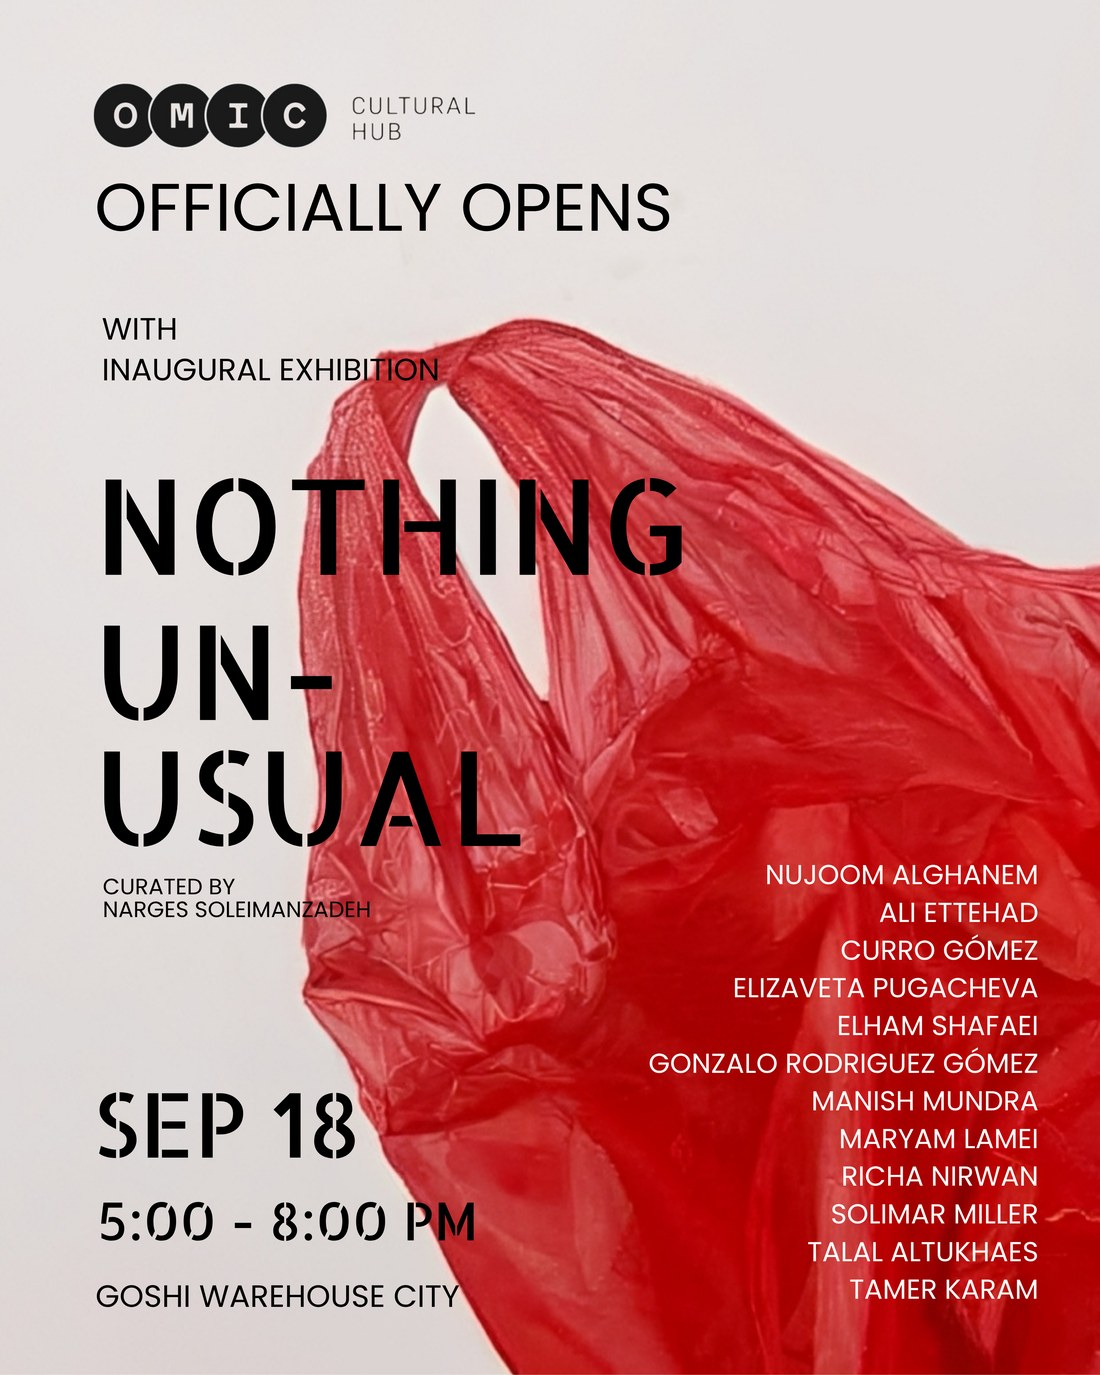
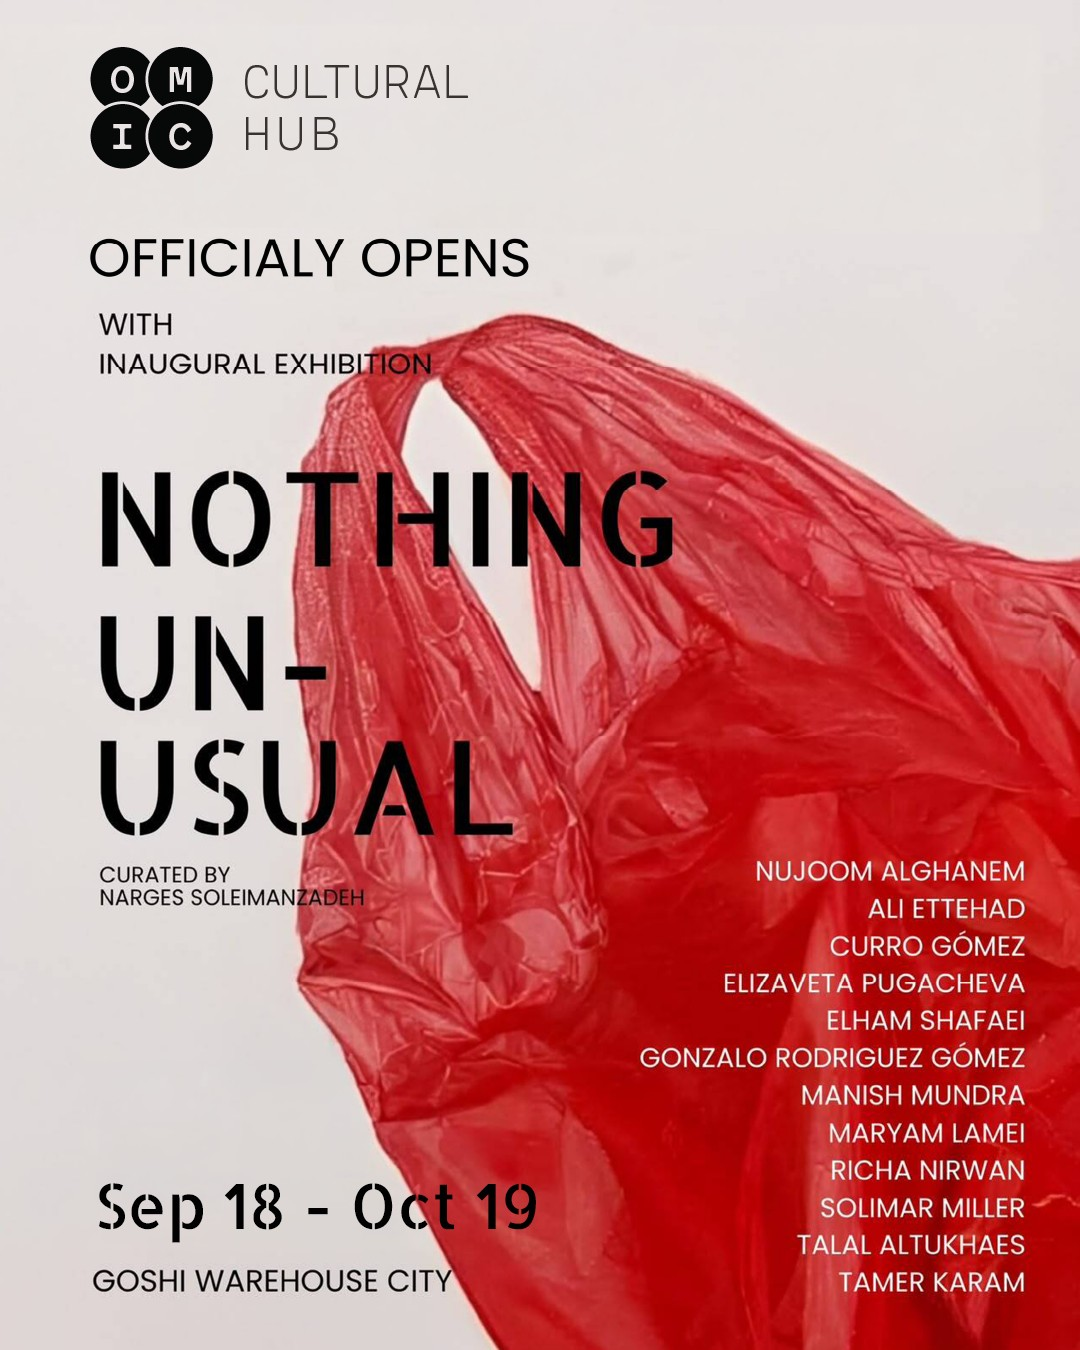
Revert Nothing Unusual to Live Event with new poster; rework Art Contest page
- nothing-unusual.html poster.jpg replaced with the new OMIC Cultural Hub
  opening poster; badge reverted from "Completed" back to "Live Event"
  (index.html and events.html teaser badges too)
- art-competition.html: removed the Competition/All Media/Cash Prizes tag
  pills and replaced them with an "Apply Now" button; removed the "Open
  call announced" / "Submission deadline" date cards; added a "Deadline"
  entry to Submission Guidelines; moved the guidelines CTA to sit after
  Submission Guidelines instead of before it
- Art Contest page: left (details) and right (form) columns now scroll
  independently on desktop instead of the whole page scrolling as one

Claude-Session: https://claude.ai/code/session_01QcJZvNdZNVGEmbqVAhxTTi

diff --git a/art-competition.html b/art-competition.html
@@ -49,8 +49,9 @@
     </div>
   </header>
 
-  <main class="layout">
+  <main class="layout layout--split-scroll">
 
+    <div class="content-scroll">
     <section class="content content--top">
       <div class="eyebrow-badge"><span class="dot dot--orange"></span>Open Call</div>
 
@@ -59,30 +60,11 @@
 
     <section class="content content--bottom">
 
-      <div class="tag-row">
-        <span class="tag-pill">COMPETITION</span>
-        <span class="tag-pill">ALL MEDIA</span>
-        <span class="tag-pill">CASH PRIZES</span>
-      </div>
+      <button type="button" id="artworkJumpToFormApplyNow" class="btn btn--primary btn--block" data-jump-to-field="artistName">
+        Apply Now
+      </button>
 
       <h1 class="title">The OMIC Art <span class="accent-blue">Contest</span></h1>
-
-      <div class="meta-grid">
-        <div class="meta-card">
-          <span class="meta-card__dot dot--orange"></span>
-          <div>
-            <p class="meta-card__label">Open call announced</p>
-            <p class="meta-card__value">24 September 2026</p>
-          </div>
-        </div>
-        <div class="meta-card">
-          <span class="meta-card__dot dot--blue"></span>
-          <div>
-            <p class="meta-card__label">Submission deadline</p>
-            <p class="meta-card__value">20 October 2026</p>
-          </div>
-        </div>
-      </div>
 
       <h2 class="section-heading"><span class="heading-dot" aria-hidden="true"></span>Theme: <span class="accent-blue">Shared Ground</span></h2>
       <div class="prose">
@@ -134,10 +116,6 @@
         </p>
       </div>
 
-      <button type="button" id="artworkJumpToFormGuidelines" class="btn btn--primary btn--block btn--bottom" data-jump-to-field="artistName">
-        Apply
-      </button>
-
       <h2 class="section-heading"><span class="heading-dot" aria-hidden="true"></span>Submission <span class="accent-blue">Guidelines</span></h2>
       <div class="prose">
         <div class="guideline-block">
@@ -167,7 +145,17 @@
             <li>There is no size limitation.</li>
           </ul>
         </div>
+        <div class="guideline-block">
+          <p class="guideline-block__title">Deadline</p>
+          <ul class="guideline-list">
+            <li>20 October 2026</li>
+          </ul>
+        </div>
       </div>
+
+      <button type="button" id="artworkJumpToFormGuidelines" class="btn btn--primary btn--block btn--bottom" data-jump-to-field="artistName">
+        Apply
+      </button>
 
       <h2 class="section-heading"><span class="heading-dot" aria-hidden="true"></span>Jury <span class="accent-blue">Members</span></h2>
       <ul class="profile-grid profile-grid--compact">
@@ -242,6 +230,7 @@
         Apply
       </button>
     </section>
+    </div>
 
     <aside class="sidebar sidebar--flow">
       <div class="register-card" id="artworkFormCard">

diff --git a/src/style.css b/src/style.css
@@ -317,6 +317,39 @@ a {
   grid-row: 2;
 }
 
+/* Art Contest page: left (details) and right (form) columns each scroll
+   independently within the viewport, instead of the whole page scrolling as
+   one. Scoped to desktop only — on mobile the two columns stack in normal
+   page flow, same as every other .layout page. */
+@media (min-width: 861px) {
+  .layout--split-scroll {
+    grid-template-rows: minmax(0, 1fr);
+    height: calc(100vh - 88px);
+    overflow: hidden;
+  }
+
+  .layout--split-scroll .content-scroll {
+    grid-column: 1;
+    grid-row: 1;
+    height: 100%;
+    min-height: 0;
+    overflow-y: auto;
+    padding-right: 4px;
+  }
+
+  .layout--split-scroll .sidebar {
+    grid-row: 1;
+    height: 100%;
+    min-height: 0;
+    overflow-y: auto;
+    position: static;
+  }
+}
+
+#artworkJumpToFormApplyNow {
+  margin-bottom: 24px;
+}
+
 .eyebrow-badge {
   display: inline-flex;
   align-items: center;

diff --git a/events.html b/events.html
@@ -62,7 +62,7 @@
 
     <a class="poster-card" href="nothing-unusual.html">
       <div class="poster-card__visual">
-        <span class="poster-card__badge"><span class="dot dot--muted"></span>Completed</span>
+        <span class="poster-card__badge"><span class="dot dot--orange"></span>Live Event</span>
         <img src="/poster.jpg" alt="OMIC officially opens with inaugural exhibition Nothing Unusual, curated by Narges Soleimanzadeh" />
       </div>
       <div class="poster-card__body">

diff --git a/index.html b/index.html
@@ -76,7 +76,7 @@
 
     <a class="poster-card" href="nothing-unusual.html">
       <div class="poster-card__visual">
-        <span class="poster-card__badge"><span class="dot dot--muted"></span>Completed</span>
+        <span class="poster-card__badge"><span class="dot dot--orange"></span>Live Event</span>
         <img src="/poster.jpg" alt="OMIC officially opens with inaugural exhibition Nothing Unusual, curated by Narges Soleimanzadeh" />
       </div>
       <div class="poster-card__body">

diff --git a/nothing-unusual.html b/nothing-unusual.html
@@ -52,7 +52,7 @@
   <main class="layout">
 
     <section class="content" id="overview">
-      <div class="eyebrow-badge"><span class="dot dot--muted"></span>Completed</div>
+      <div class="eyebrow-badge"><span class="dot dot--orange"></span>Live Event</div>
 
       <img class="poster" src="/poster.jpg" alt="OMIC officially opens with inaugural exhibition Nothing Unusual, curated by Narges Soleimanzadeh, Sep 18, 5:00–8:00 PM, Goshi Warehouse City" />
 
